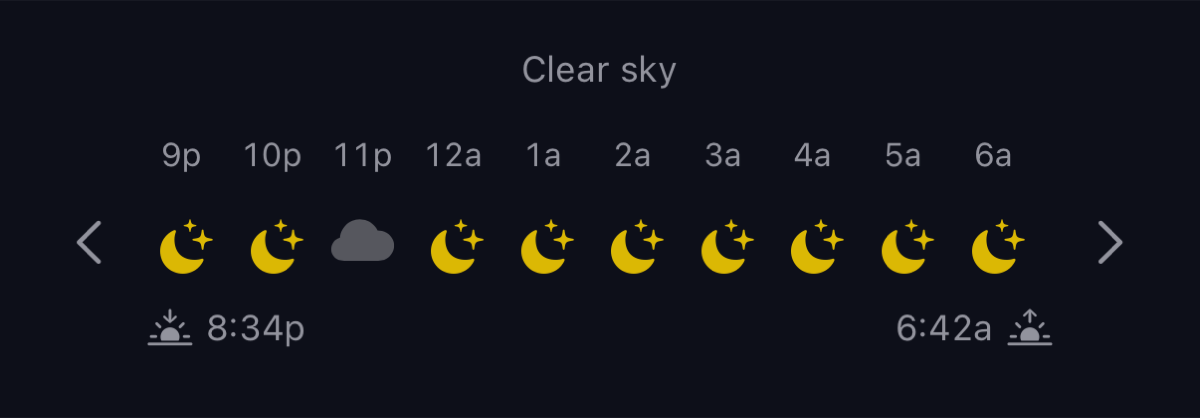
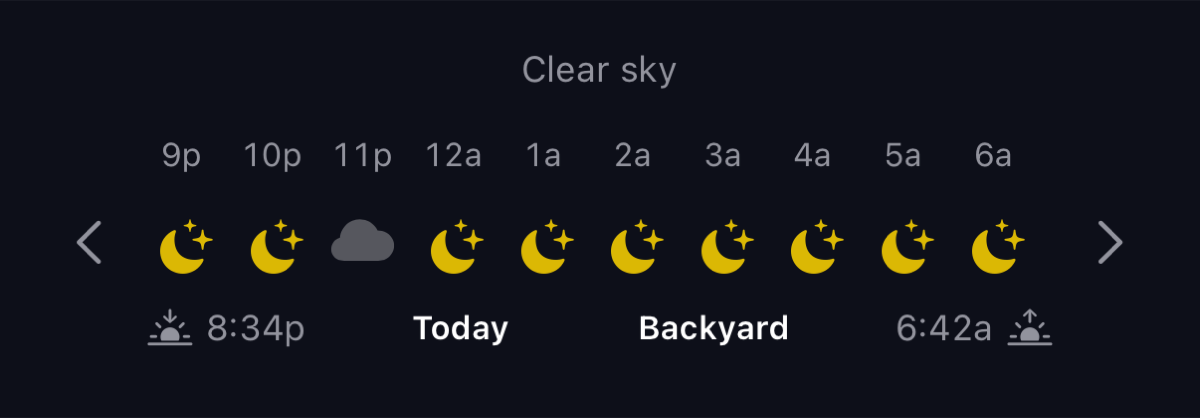
Sky page: device screenshots placed; weather strip re-rendered
* Five device screenshots cropped (status bars off; toolbar band
  extracted from the chart shot) and wired into their sections:
  sky chart, toolbar, targets list, object detail (M101), site
  detail (with horizon import + clear-sky toggle).
* weather-strip.png re-rendered to include the date pill and site
  name the first render was missing.

All 9 referenced images resolve in the consuming app's contract
tests.

Changed region(s): [[0.5242, 0.7464, 0.6783, 0.8397], [0.3392, 0.7464, 0.4317, 0.8397]]

diff --git a/docs/en/sky.md b/docs/en/sky.md
@@ -35,6 +35,8 @@ outage shows the last known forecast rather than nothing.
 
 ## Sky chart
 
+![The main screen: weather strip above a full-disc sky chart with a horizon silhouette, hours-above-horizon shading, legend, and toolbar](images/sky-chart.png)
+
 The chart is your whole sky at once: the edge of the disc is your
 horizon, the center is straight up.  Deep-sky objects appear as
 catalog symbols, planets as colored discs, comets with a small
@@ -78,6 +80,8 @@ hour after dusk, it goes to the front of the queue.
 
 ## Toolbar
 
+![Toolbar with shading mode, filter, apparent size, more menu, and targets buttons](images/toolbar.png)
+
 The toolbar holds the chart's controls:
 
 - **Shading** — switch between the three shading modes above.
@@ -92,6 +96,8 @@ The toolbar holds the chart's controls:
 
 ## Targets list
 
+![Targets list with search and per-target visibility timeline bars](images/targets-list.png)
+
 Everything visible tonight, as a list.  Each row carries a
 **visibility timeline** — a bar showing exactly when that target is
 above your horizon during the night — plus its type, brightness,
@@ -101,6 +107,8 @@ hide.  Planets and comets get their own sections at the top.  Tap
 any row for the detail sheet.
 
 ## Object detail
+
+![Object detail for galaxy M101: altitude chart with visibility span, photo preview with field-of-view comparison, and rise, set, and transit facts](images/object-detail.png)
 
 Tap any target — on the chart or in the list — for its planning
 card:
@@ -123,6 +131,8 @@ card:
 ## Settings
 
 ### Sites
+
+![Site editor showing the clear-sky alert toggle, location map, and horizon import options](images/site-detail.png)
 
 Your observing sites, synced through iCloud Drive to every device
 on your account.  Tap a site to edit its name and location, and to
